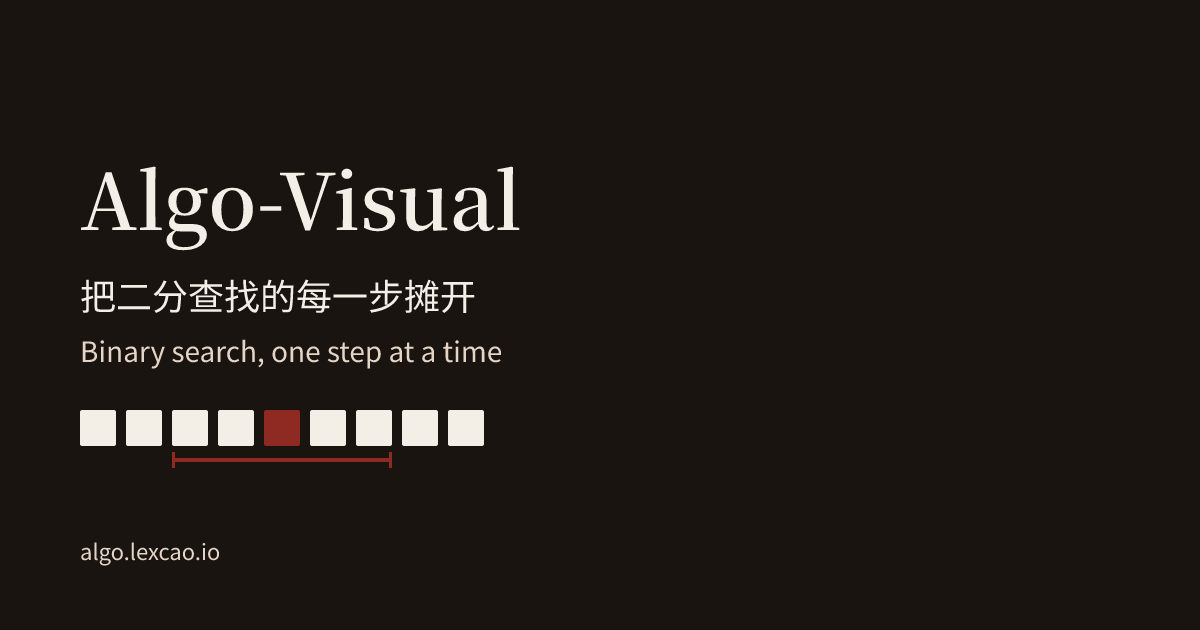
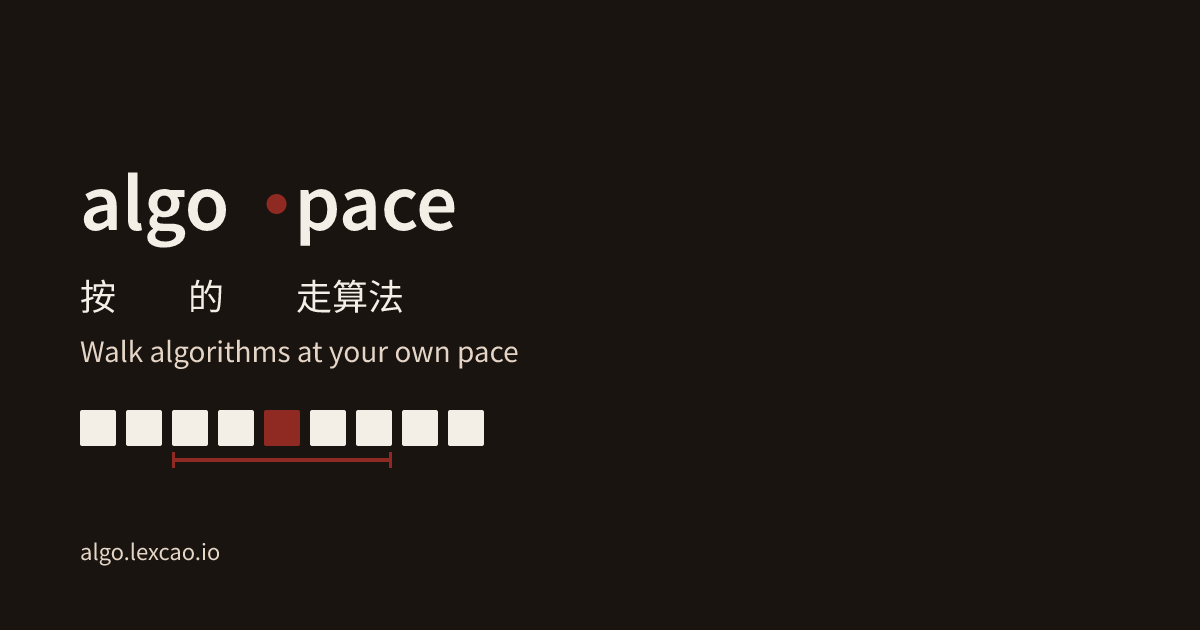
Brand as algo·pace lettermark
Rename the product to algo·pace, swap the placeholder icon for the
approved a + cinnabar-dot favicon, regenerate OG/apple assets via
npm run assets, and serve /favicon.svg so it never falls back to HTML.

Changed region(s): [[0.0617, 0.2714, 0.4317, 0.3921], [0.0617, 0.4222, 0.4008, 0.5127], [0.0617, 0.5429, 0.4317, 0.6032]]

diff --git a/src/components/Shell.jsx b/src/components/Shell.jsx
@@ -43,7 +43,14 @@ export default function Shell ({ children }) {
       <a className="skip" href="#work">跳到内容</a>
       <header className="top">
         <div className="top-inner">
-          <Link className="brand" to="/binary-search">{branding.name}</Link>
+          <Link className="brand" to="/binary-search" aria-label={branding.name}>
+            {branding.name.split('·').map((part, i) => (
+              <span key={i}>
+                {i > 0 ? <span className="brand-dot" aria-hidden="true">·</span> : null}
+                {part}
+              </span>
+            ))}
+          </Link>
           <nav className="nav" aria-label="算法">
             {algorithms.map(item => (
               <Link

diff --git a/src/styles.css b/src/styles.css
@@ -123,11 +123,17 @@ body {
 .brand {
   color: var(--bone);
   text-decoration: none;
-  font-family: var(--serif);
-  font-size: 1.35rem;
-  letter-spacing: -0.03em;
+  font-family: var(--mono);
+  font-size: 1.2rem;
+  font-weight: 400;
+  letter-spacing: 0.02em;
   line-height: 1;
   white-space: nowrap;
+}
+
+.brand-dot {
+  color: var(--cinnabar);
+  padding: 0 0.02em;
 }
 
 .nav {

diff --git a/PRODUCT.md b/PRODUCT.md
@@ -29,18 +29,18 @@ Confirmed:
 - Routes: `/` (redirects to `/binary-search`), the four binary-search variant URLs, `/sorting/bubble-sort`, `/sorting/quick-sort`, `/graph/grid-search`, `/two-pointers`, `/sliding-window`.
 - Binary-search arrays and step functions stay in `src/binary-search/data/`. The newer step generators live in `src/algorithms/` and are pure functions. Do not add batch landing pages.
 - Stack stays Vite 2, React 17, react-router-dom 5, Tailwind 2 unless a build cannot proceed.
-- Name stays `Algo-Visual` until a later decision. Name, tagline, and icon paths live in one branding config. Favicon is a generated neutral placeholder. The OG image is generated from that config.
+- Name is `algo·pace` (lettermark with a cinnabar middle dot; favicon is `a` + cinnabar dot). Name, tagline, and icon paths live in `src/branding.json`. Favicon/apple/OG are generated by `npm run assets` from branding + `scripts/brand-marks/`.
 - SEO on every catalog route: `robots.txt` and `sitemap.xml`, description, canonical, `lang`, per-route static HTML from the post-build script, a crawlable no-JS intro in Chinese and English, WebApplication JSON-LD, real 404s for unknown paths, no stray `console.log`. The sitemap does not list the redirecting root.
 - `npm run build` runs the HTML meta check. `npm run test:unit` runs vitest on the step generators.
 - Preview is the Vercel preview for the pull request. Do not change Cloudflare, DNS, or zone settings. Do not merge.
 - `prefers-reduced-motion` must be respected.
 - Do not delete the leftover `CNAME` in this change; that file is out of scope.
 
-Undecided, recorded rather than invented: final product name, logo, and tagline beyond a working placeholder. Voice is bilingual, Chinese first, because the diagnosis asks for a Chinese-priority intro and the public site is Lex's.
+Settled: product name `algo·pace`, lettermark logo, tagline in branding.json. Voice is bilingual, Chinese first, because the diagnosis asks for a Chinese-priority intro and the public site is Lex's.
 
 ## Brand Commitments
 
-The visible name is `Algo-Visual`. No logo is approved. Icon paths are configuration, not a brand mark. Award-tier craft is required for typography, whitespace, hierarchy, color, motion, micro-interactions, responsive layout, and originality. The visualization (step animation, pointer highlights, controls) is the core and must stay clear.
+The visible name is `algo·pace`. The approved mark is a pure letter wordmark (no pictogram); favicon is the letter `a` with a cinnabar dot. Award-tier craft is required for typography, whitespace, hierarchy, color, motion, micro-interactions, responsive layout, and originality. The visualization (step animation, pointer highlights, controls) is the core and must stay clear.
 
 ## Evidence on Hand
 

diff --git a/DESIGN.md b/DESIGN.md
@@ -1,5 +1,5 @@
 ---
-name: Algo-Visual
+name: algo·pace
 description: "A lacquer-and-bone study surface with one cinnabar measure."
 colors:
   cinnabar: "#8E2A22"
@@ -134,13 +134,13 @@ components:
     typography: "{typography.body}"
 ---
 
-# Design System: Algo-Visual
+# Design System: algo·pace
 
 ## Overview
 
 **Creative North Star: "The Suanpan Span"**
 
-Algo-Visual is a study surface: a lacquer shell over a bone page, with cinnabar as the only accent. The accent fills the midpoint and the measured span, and it fills the one primary button. The same red marks whatever is current: the nav underline, the code-line number, the trace index, the caret, and the focus ring. Low and high stay ink. A cell outside the range drops to one quiet tone.
+algo·pace is a study surface: a lacquer shell over a bone page, with cinnabar as the only accent. The accent fills the midpoint and the measured span, and it fills the one primary button. The same red marks whatever is current: the nav underline, the code-line number, the trace index, the caret, and the focus ring. Low and high stay ink. A cell outside the range drops to one quiet tone.
 
 Chinese is the primary line. Noto Serif SC carries the brand, the page title, and the section titles. Noto Sans SC carries the UI, including the English line set under each serif title. JetBrains Mono is loaded for the code block and for nothing else. The page is one left-aligned column. Reading text holds to 68ch. The array is the working object, and the status sentence and the buttons sit directly under it.
 
